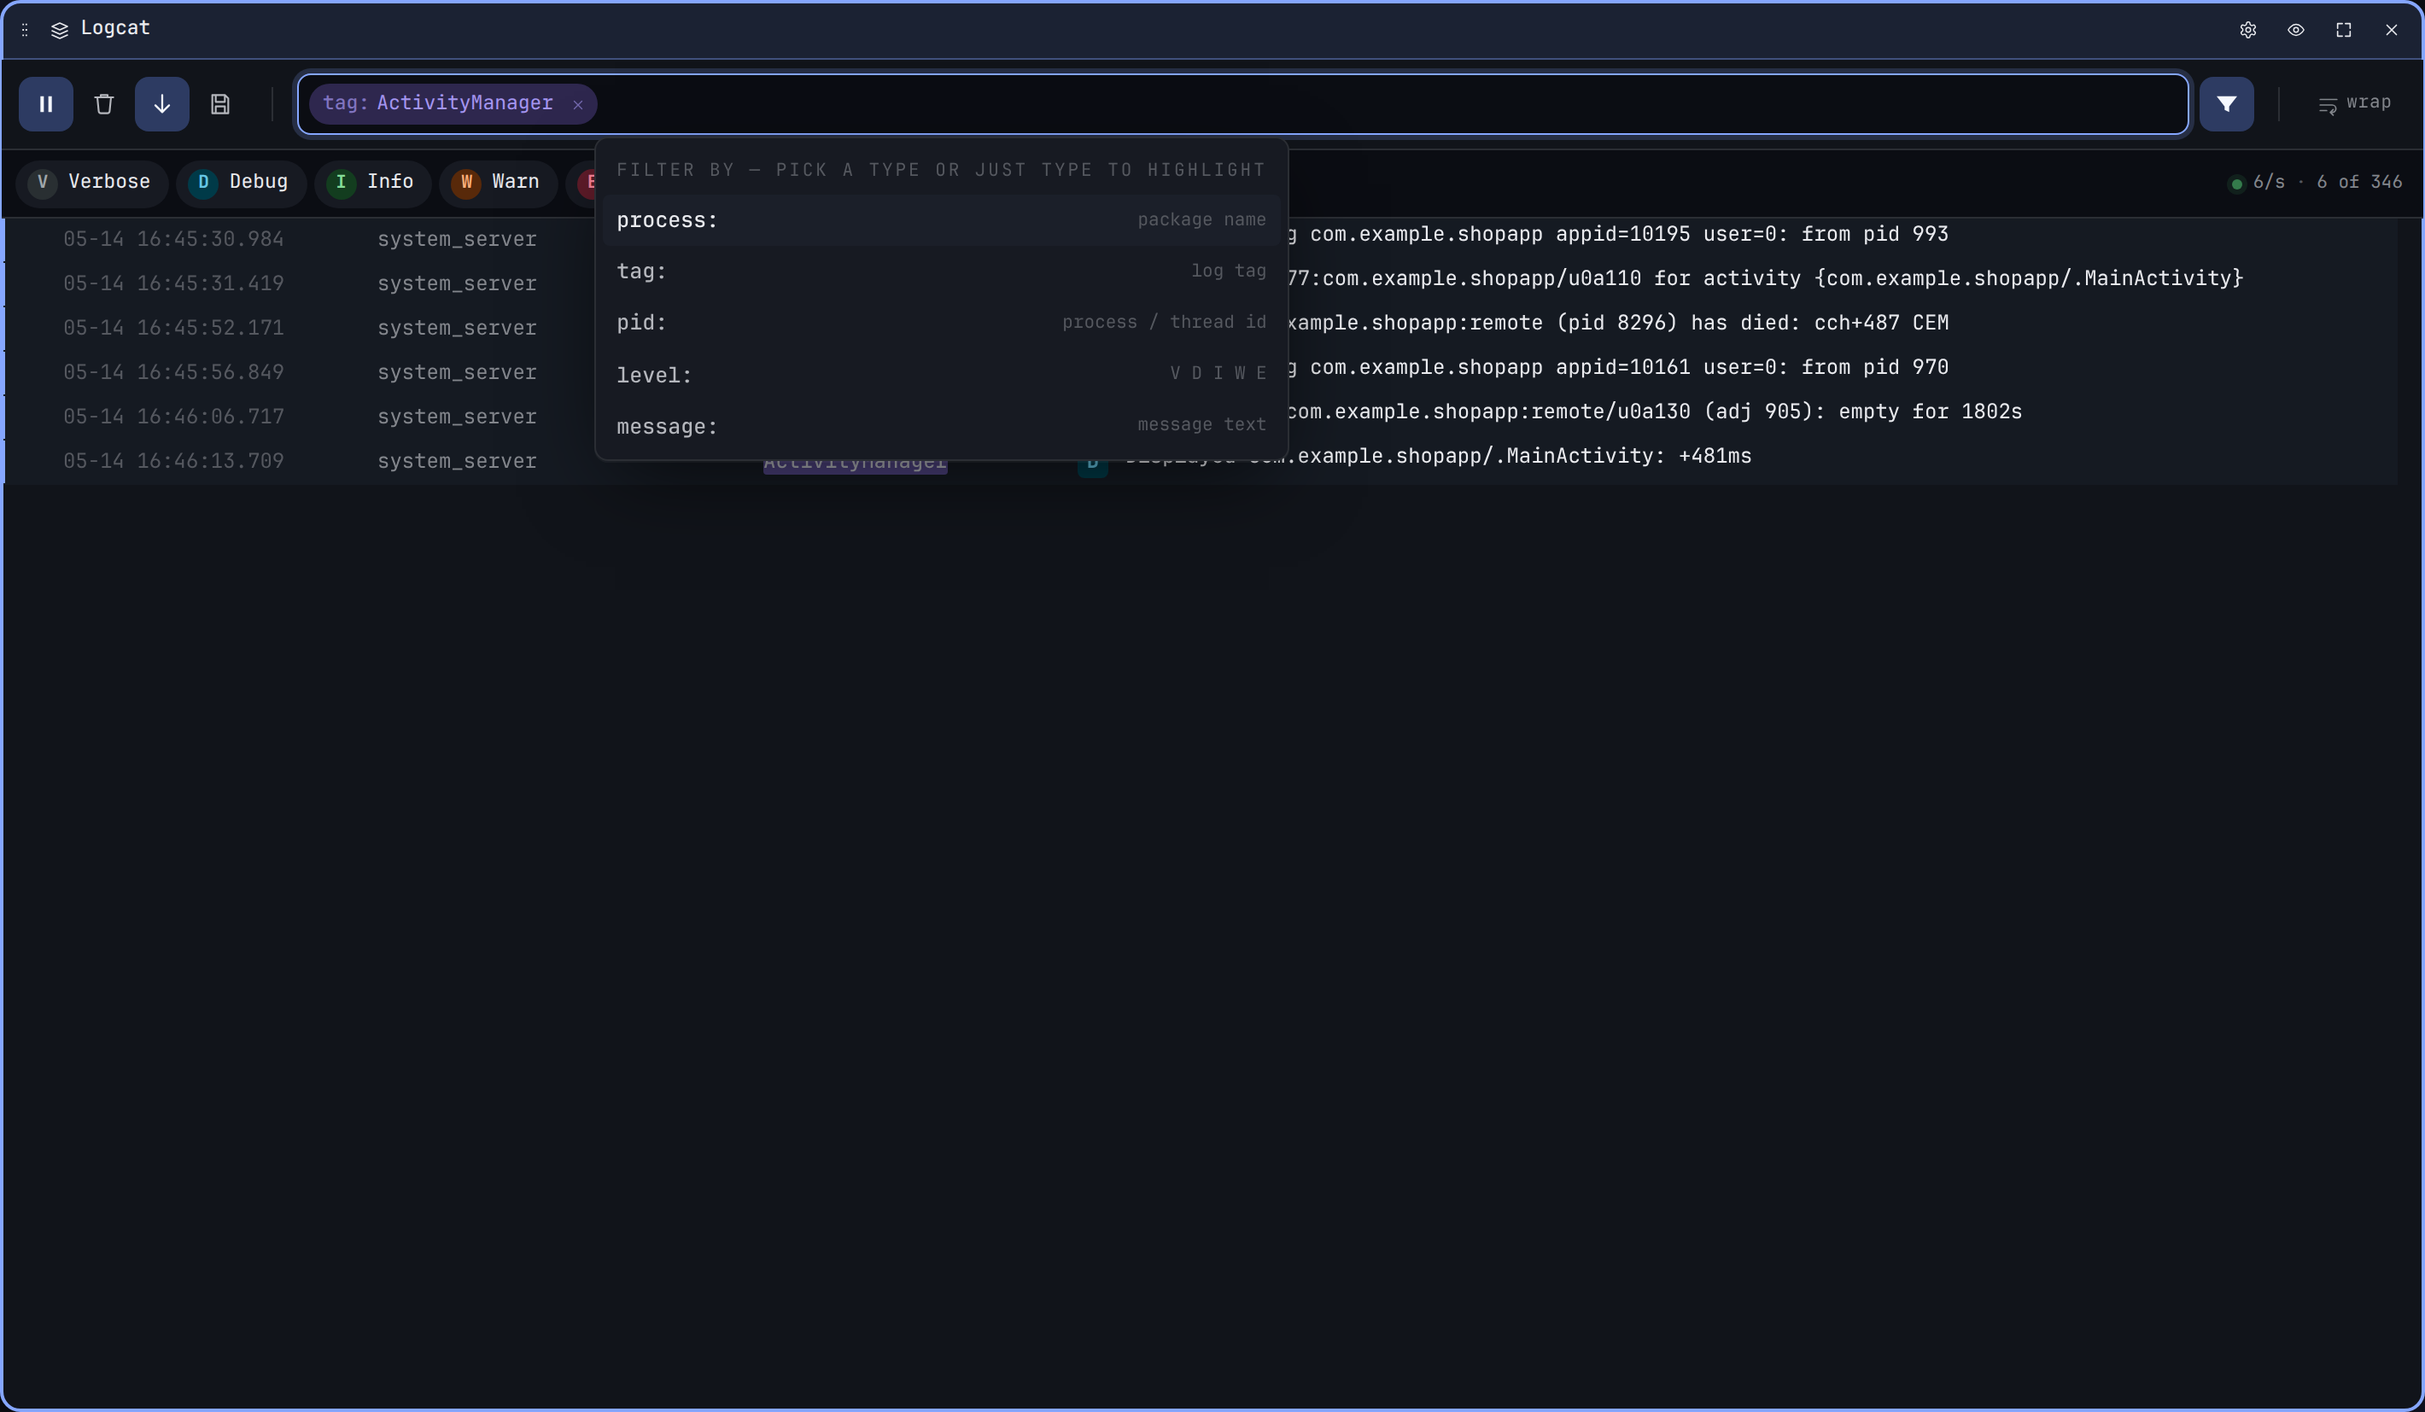
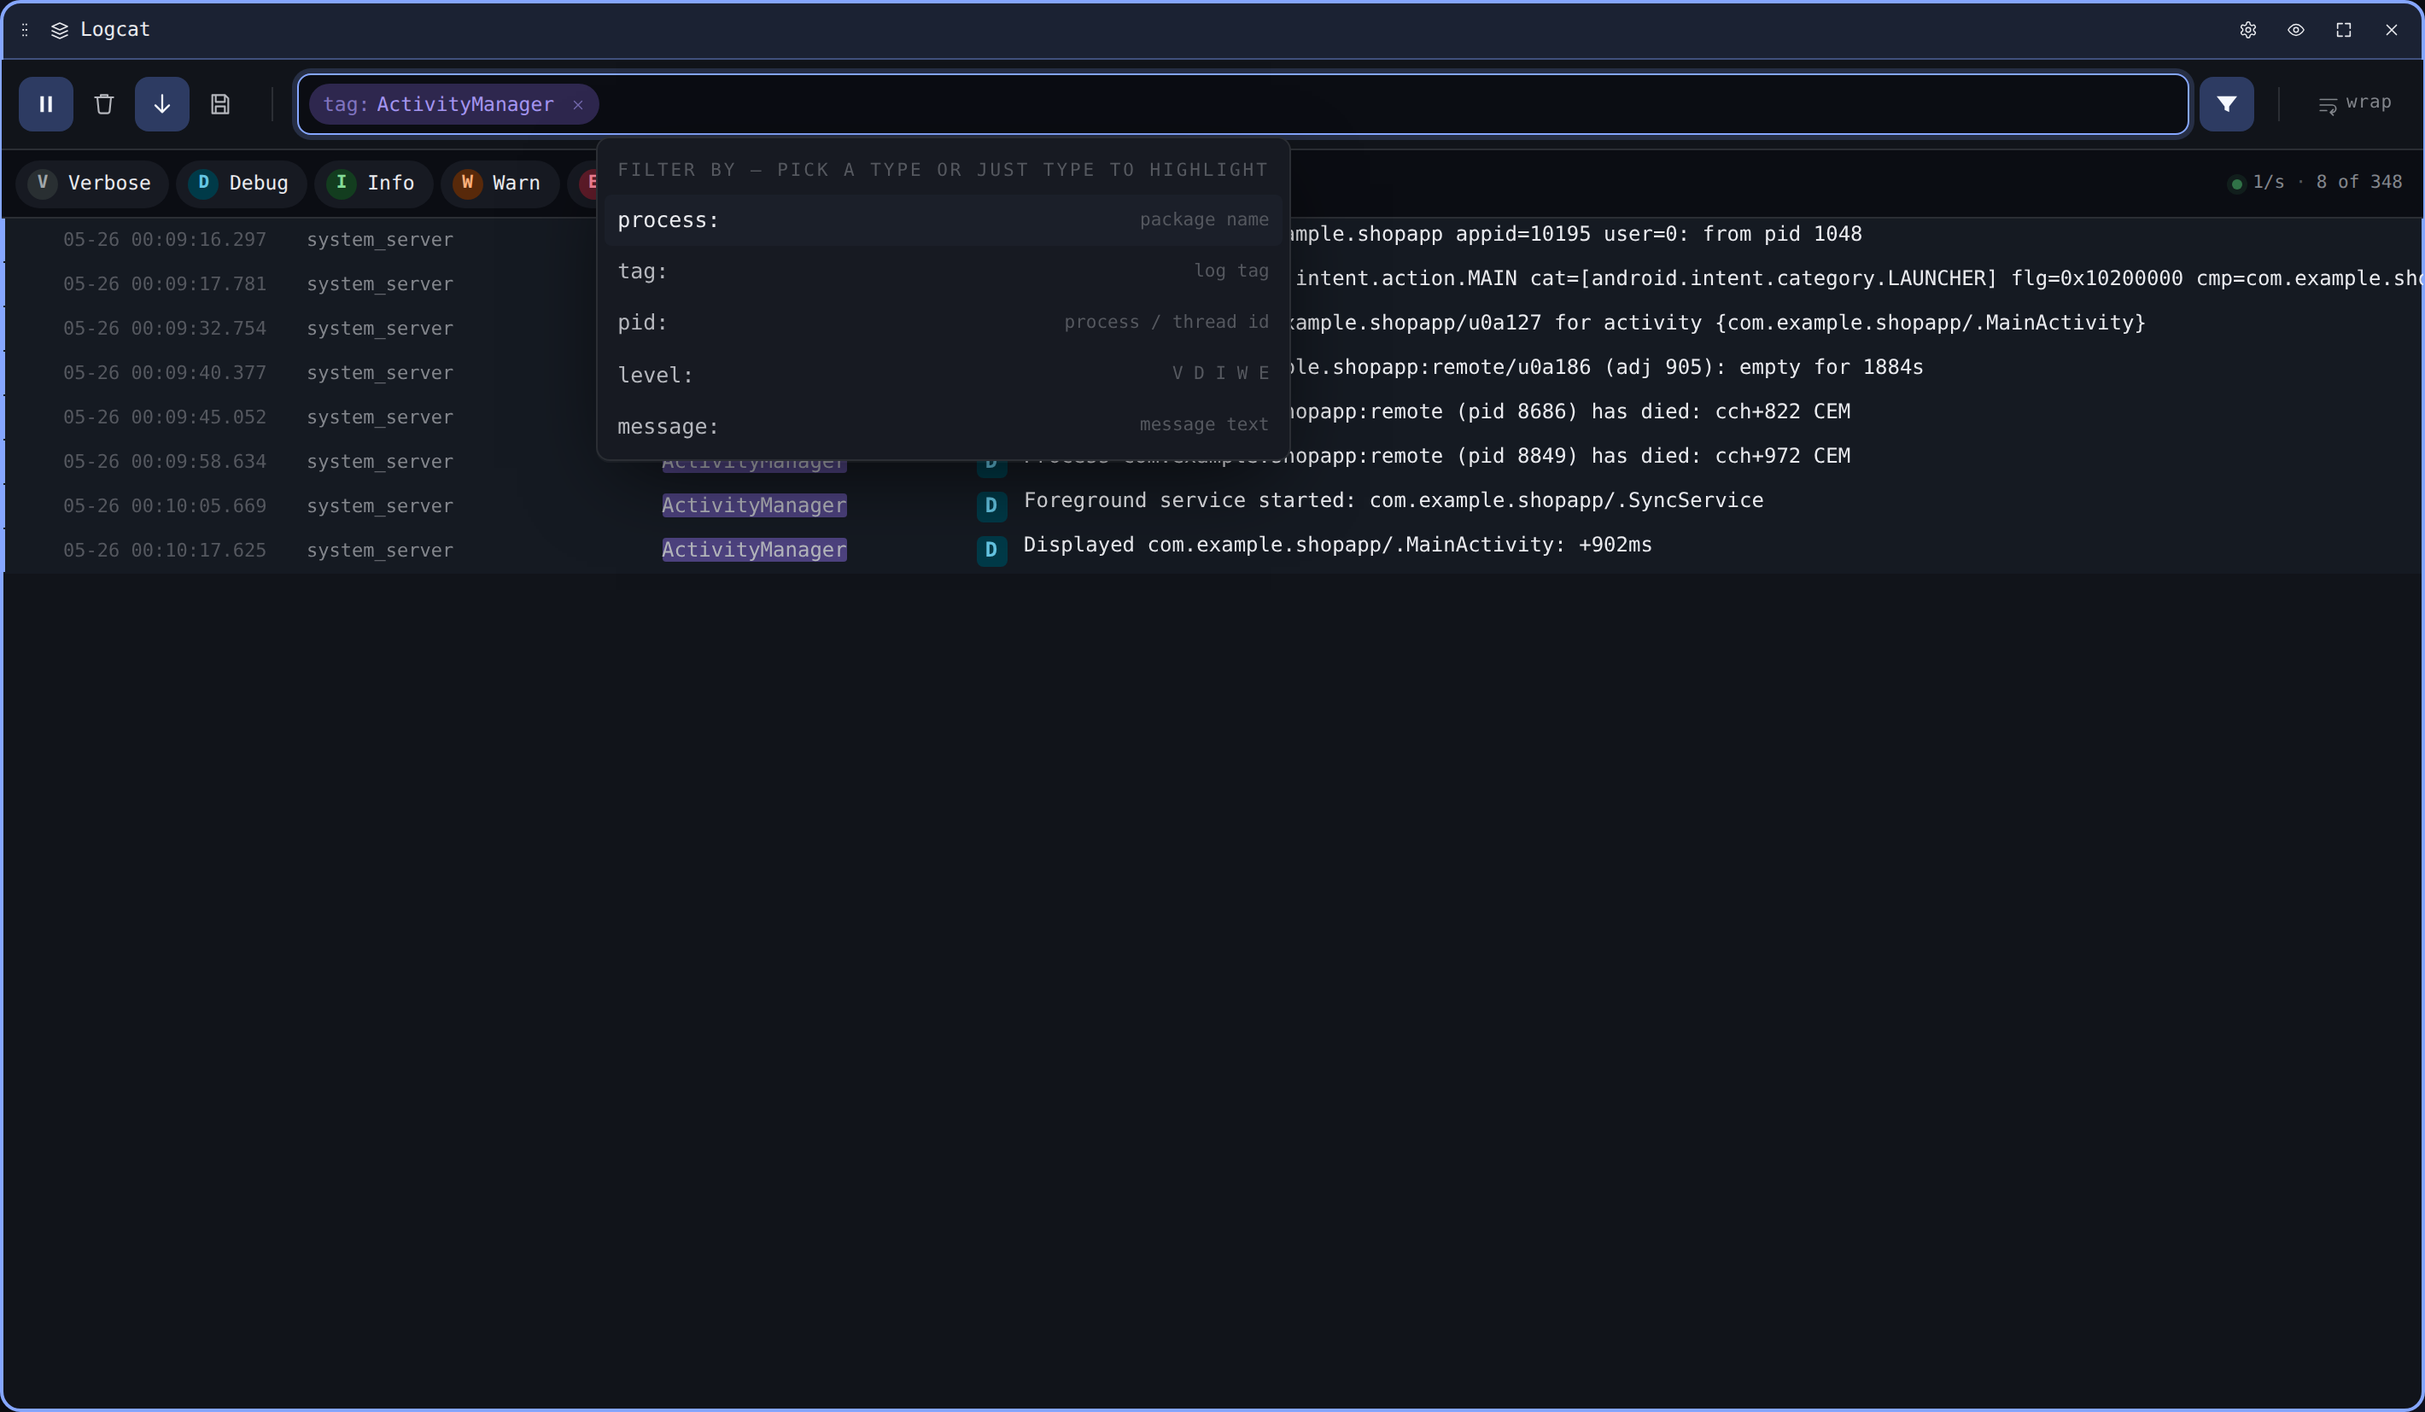
feat(logcat): tighten meta columns and add timestamp format setting
Reclaims horizontal space in log rows: the timestamp and PID/TID
columns are narrower, and the timestamp, PID, and process columns now
render one step below the message font so the eye lands on the message.
Adds a per-widget "Timestamp format" setting (Date / Time / Clock) that
drops the date then the milliseconds; the timestamp column width tracks
the chosen format. All sizing is em-relative so it scales with the
existing font-size slider.

https://claude.ai/code/session_01B69dFS61NXKi8XuywSMUXJ

diff --git a/src/components/widgets/logcat/LogcatSettingsBody.tsx b/src/components/widgets/logcat/LogcatSettingsBody.tsx
@@ -7,6 +7,7 @@ import { useMemo } from 'react';
 import { useTileSettings } from '../../../lib/tileSettings';
 import { LOGCAT_DEFAULTS, type LogcatSettings } from './logcatSettings';
 import { SettingsRow, SettingsSection, Segmented, Toggle, Slider } from '../../settings/SettingsControls';
+import { formatTs, type TimestampFormat } from '../../../lib/format';
 import type { LogLevel } from '../../../types';
 
 export interface LogcatSettingsBodyProps {
@@ -20,6 +21,17 @@ const LEVELS: ReadonlyArray<{ l: LogLevel; label: string }> = [
   { l: 'W', label: 'Warn' },
   { l: 'E', label: 'Error' },
 ];
+
+const DATE_FORMATS: ReadonlyArray<{ value: TimestampFormat; label: string }> = [
+  { value: 'datetime', label: 'Date' },
+  { value: 'time', label: 'Time' },
+  { value: 'clock', label: 'Clock' },
+];
+
+// Fixed sample so the picker's preview is deterministic regardless of
+// the wall clock. Built from local components so the rendered date /
+// time matches the user's locale the same way live rows do.
+const SAMPLE_TS = new Date(2024, 4, 25, 20, 41, 9, 261).getTime();
 
 export function LogcatSettingsBody({ tileId }: LogcatSettingsBodyProps) {
   const [settings, setSettings] = useTileSettings<LogcatSettings>(
@@ -72,6 +84,21 @@ export function LogcatSettingsBody({ tileId }: LogcatSettingsBodyProps) {
             ariaLabel="Wrap"
           />
         </SettingsRow>
+        <div className="ws-row gs-row-stacked">
+          <div className="gs-row-head">
+            <span className="ws-row-key">Timestamp format</span>
+            <span className="gs-row-desc">
+              Shorter formats drop the date, then the milliseconds, to
+              reclaim column width. Preview:{' '}
+              <code>{formatTs(SAMPLE_TS, settings.dateFormat)}</code>
+            </span>
+          </div>
+          <Segmented
+            value={settings.dateFormat}
+            onChange={(dateFormat) => setSettings({ dateFormat })}
+            options={DATE_FORMATS}
+          />
+        </div>
       </SettingsSection>
 
       <SettingsSection label="Columns">

diff --git a/src/styles/widgets/settings.css b/src/styles/widgets/settings.css
@@ -225,18 +225,39 @@
  * no-op for everything except `.cell.tag`).
  * ========================================================================= */
 
-/* Logcat — every cell in a log row reads body text. */
+/* Logcat — the message + tag read at the full body text size. */
 .lc-widget .row,
 .lc-widget .row .cell,
-.lc-widget .row .cell.ts,
-.lc-widget .row .cell.pid,
-.lc-widget .row .cell.pkg,
 .lc-widget .row .cell.tag,
 .lc-widget .row .cell.msg,
 .lc-widget .pinned-block .row,
 .lc-widget .pinned-block .row .cell {
   font-size: var(--widget-font-size, var(--t-sm));
 }
+
+/* Meta columns (timestamp, pid/tid, process) sit one step below the
+ * body size so the eye lands on the message first and the fixed columns
+ * pack tighter. The `.cell.X` selectors out-specify the generic
+ * `.cell` rule above. Stays relative to the per-tile font so it tracks
+ * the font-size slider. */
+.lc-widget .row .cell.ts,
+.lc-widget .row .cell.pid,
+.lc-widget .row .cell.pkg,
+.lc-widget .pinned-block .row .cell.ts,
+.lc-widget .pinned-block .row .cell.pid,
+.lc-widget .pinned-block .row .cell.pkg {
+  font-size: calc(var(--widget-font-size, var(--t-sm)) - 1px);
+}
+
+/* Timestamp + pid column widths, tightened from the design defaults
+ * (14em / 8em) now the meta font is a step smaller. The timestamp
+ * column tracks the chosen format via `data-ts-format` on the widget
+ * root — shorter formats reclaim the slack. em units keep every width
+ * proportional to the meta font size across the slider range. */
+.lc-widget .cell.ts { width: 11.5em; }
+.lc-widget[data-ts-format='time'] .cell.ts { width: 7.75em; }
+.lc-widget[data-ts-format='clock'] .cell.ts { width: 5.25em; }
+.lc-widget .cell.pid { width: 7.5em; }
 
 /* Shell — scrollback + the live prompt input. */
 .sh-widget .sh-scroll,

diff --git a/tests/smoke.spec.ts b/tests/smoke.spec.ts
@@ -1319,6 +1319,29 @@ test.describe('dashboard', () => {
     ).toHaveAttribute('aria-checked', 'false');
   });
 
+  test('Logcat modal "Timestamp format" reshapes the rendered row timestamp', async ({
+    page,
+  }) => {
+    await page.goto('/');
+    await page.getByRole('button', { name: /fake data/i }).click();
+
+    const logcatTile = page.locator('.tile').filter({ has: page.locator('.lc-widget') });
+    const firstTs = logcatTile.locator('.row .cell.ts').first();
+    // Default is the full Android shape: `MM-DD HH:MM:SS.mmm`.
+    await expect(firstTs).toHaveText(/^\d{2}-\d{2} \d{2}:\d{2}:\d{2}\.\d{3}$/);
+
+    // Switch to the compact "Clock" format via the modal.
+    await logcatTile.getByRole('button', { name: /widget settings/i }).click();
+    const dialog = page.getByRole('dialog', { name: /Logcat · settings/i });
+    await expect(dialog).toBeVisible();
+    await dialog.getByRole('tab', { name: /^Clock$/ }).click();
+    await page.keyboard.press('Escape');
+    await expect(dialog).not.toBeVisible();
+
+    // Rows now render just the clock (no date, no millis).
+    await expect(firstTs).toHaveText(/^\d{2}:\d{2}:\d{2}$/);
+  });
+
   test('the +Add palette closes via Esc, scrim click, and the close button', async ({
     page,
   }) => {

diff --git a/src/lib/format.test.ts b/src/lib/format.test.ts
@@ -1,0 +1,32 @@
+import { describe, expect, it } from 'vitest';
+import { formatTs } from './format';
+
+// A fixed local-time instant: 2024-05-25 20:41:09.261. Built from local
+// components so the assertions hold regardless of the runner's timezone
+// (the formatter reads local getHours/getMonth/etc., matching the UI).
+const TS = new Date(2024, 4, 25, 20, 41, 9, 261).getTime();
+
+describe('formatTs', () => {
+  it('defaults to the full date + time + millis shape', () => {
+    expect(formatTs(TS)).toBe('05-25 20:41:09.261');
+  });
+
+  it('"datetime" matches the default', () => {
+    expect(formatTs(TS, 'datetime')).toBe('05-25 20:41:09.261');
+  });
+
+  it('"time" drops the date but keeps milliseconds', () => {
+    expect(formatTs(TS, 'time')).toBe('20:41:09.261');
+  });
+
+  it('"clock" drops the date and the milliseconds', () => {
+    expect(formatTs(TS, 'clock')).toBe('20:41:09');
+  });
+
+  it('zero-pads every component', () => {
+    const early = new Date(2024, 0, 3, 4, 5, 6, 7).getTime();
+    expect(formatTs(early, 'datetime')).toBe('01-03 04:05:06.007');
+    expect(formatTs(early, 'time')).toBe('04:05:06.007');
+    expect(formatTs(early, 'clock')).toBe('04:05:06');
+  });
+});

diff --git a/src/components/LogList.tsx b/src/components/LogList.tsx
@@ -40,7 +40,7 @@ import { useEffect, useLayoutEffect, useMemo, useRef, type UIEvent } from 'react
 import { useVirtualizer } from '@tanstack/react-virtual';
 import * as Icons from './Icons';
 import { entryMatches } from '../lib/filters';
-import { rowHeightFor } from '../lib/format';
+import { rowHeightFor, type TimestampFormat } from '../lib/format';
 import { LogRow } from './LogRow';
 import type { Filter, LogEntry, Tweaks } from '../types';
 
@@ -49,6 +49,8 @@ const VIRTUAL_THRESHOLD = 800;
 export interface LogListProps {
   entries: LogEntry[];
   filters: Filter[];
+  /** Timestamp column presentation, forwarded to each row. */
+  tsFormat: TimestampFormat;
   pinned: Set<number>;
   pinnedEntries: LogEntry[];
   onTogglePin: (id: number) => void;
@@ -88,6 +90,7 @@ interface ScrollAnchor {
 export function LogList({
   entries,
   filters,
+  tsFormat,
   pinned,
   pinnedEntries,
   onTogglePin,
@@ -343,6 +346,7 @@ export function LogList({
       key={`${keyPrefix}${l.id}`}
       entry={l}
       filters={filters}
+      tsFormat={tsFormat}
       showTimestamps={tweaks.showTimestamps}
       showPid={tweaks.showPid}
       showProcess={tweaks.showProcess}

diff --git a/src/components/LogRow.tsx b/src/components/LogRow.tsx
@@ -3,7 +3,7 @@
 
 import { Fragment, memo, useMemo, type ReactNode } from 'react';
 import * as Icons from './Icons';
-import { formatTs } from '../lib/format';
+import { formatTs, type TimestampFormat } from '../lib/format';
 import type { Filter, LogEntry } from '../types';
 
 interface FieldRange {
@@ -66,6 +66,7 @@ function HighlightedText({ text, ranges }: HighlightedTextProps) {
 export interface LogRowProps {
   entry: LogEntry;
   filters: Filter[];
+  tsFormat: TimestampFormat;
   showTimestamps: boolean;
   showPid: boolean;
   showProcess: boolean;
@@ -87,6 +88,7 @@ export interface LogRowProps {
 export const LogRow = memo(function LogRow({
   entry,
   filters,
+  tsFormat,
   showTimestamps,
   showPid,
   showProcess,
@@ -160,7 +162,7 @@ export const LogRow = memo(function LogRow({
       >
         {pinned ? <Icons.PinFilled size={11} /> : <Icons.Pin size={11} />}
       </button>
-      {showTimestamps && <span className="cell ts">{formatTs(entry.ts)}</span>}
+      {showTimestamps && <span className="cell ts">{formatTs(entry.ts, tsFormat)}</span>}
       {showPid && (
         <span className="cell pid">
           {entry.pid}-{entry.tid}

diff --git a/src/lib/format.ts b/src/lib/format.ts
@@ -2,10 +2,19 @@
 
 import type { Tweaks } from '../types';
 
-export function formatTs(ts: number): string {
+/** Logcat row timestamp presentation. `datetime` is the full Android
+ *  logcat shape (`MM-DD HH:MM:SS.mmm`); the shorter forms drop the date
+ *  and then the milliseconds so narrow tiles can reclaim the column. */
+export type TimestampFormat = 'datetime' | 'time' | 'clock';
+
+export function formatTs(ts: number, format: TimestampFormat = 'datetime'): string {
   const d = new Date(ts);
   const pad = (n: number, w = 2) => String(n).padStart(w, '0');
-  return `${pad(d.getMonth() + 1)}-${pad(d.getDate())} ${pad(d.getHours())}:${pad(d.getMinutes())}:${pad(d.getSeconds())}.${pad(d.getMilliseconds(), 3)}`;
+  const clock = `${pad(d.getHours())}:${pad(d.getMinutes())}:${pad(d.getSeconds())}`;
+  if (format === 'clock') return clock;
+  const withMs = `${clock}.${pad(d.getMilliseconds(), 3)}`;
+  if (format === 'time') return withMs;
+  return `${pad(d.getMonth() + 1)}-${pad(d.getDate())} ${withMs}`;
 }
 
 /** Estimated pixel height of one log row at the given density. Used by

diff --git a/src/components/widgets/logcat/logcatSettings.ts b/src/components/widgets/logcat/logcatSettings.ts
@@ -6,6 +6,7 @@
 // into `settings.filters`.
 
 import { registerSettingsMigration } from '../../../lib/tileSettings';
+import type { TimestampFormat } from '../../../lib/format';
 import type { Filter, LevelEnabled } from '../../../types';
 
 export interface LogcatSettings {
@@ -14,6 +15,9 @@ export interface LogcatSettings {
   density: 'compact' | 'comfortable';
   heatmap: boolean;
   wrap: boolean;
+  /** Timestamp column presentation — controls both the rendered string
+   *  and the column width (shorter formats reclaim horizontal space). */
+  dateFormat: TimestampFormat;
   showTimestamp: boolean;
   showPid: boolean;
   showProcess: boolean;
@@ -31,6 +35,7 @@ export const LOGCAT_DEFAULTS: LogcatSettings = {
   density: 'compact',
   heatmap: false,
   wrap: false,
+  dateFormat: 'datetime',
   showTimestamp: true,
   showPid: false,
   showProcess: true,

diff --git a/src/components/widgets/LogcatWidget.tsx b/src/components/widgets/LogcatWidget.tsx
@@ -626,6 +626,7 @@ export function LogcatWidget({ tileId }: LogcatWidgetProps) {
       onWheel={bumpActive}
       onScrollCapture={bumpActive}
       data-density={settings.density}
+      data-ts-format={settings.dateFormat}
       data-active={active ? 'true' : 'false'}
       style={widgetStyle}
     >
@@ -689,6 +690,7 @@ export function LogcatWidget({ tileId }: LogcatWidgetProps) {
         <LogList
           entries={filtered}
           filters={filters}
+          tsFormat={settings.dateFormat}
           pinned={pinned}
           pinnedEntries={pinnedEntries}
           onTogglePin={togglePin}

diff --git a/docs/features/logcat.md b/docs/features/logcat.md
@@ -87,11 +87,29 @@ modal) to wrap long messages within the row.
 - `⌘K` / `Ctrl+K` clears the visible buffer (the upstream stream keeps
   going).
 
+## Timestamp format
+
+The timestamp column defaults to the full Android logcat shape,
+`MM-DD HH:MM:SS.mmm`. On narrow tiles you can trade precision for
+horizontal space from the per-widget settings modal:
+
+| Format | Example | Notes |
+| --- | --- | --- |
+| `Date` | `05-25 20:41:09.261` | Full date + time + milliseconds (default) |
+| `Time` | `20:41:09.261` | Drops the date — handy when every line is same-day |
+| `Clock` | `20:41:09` | Drops the date and milliseconds — the most compact |
+
+The column width tracks the chosen format, so shorter formats hand the
+reclaimed space back to the message. The timestamp, PID/TID, and process
+columns also render a step smaller than the message so the eye lands on
+the message first.
+
 ## Per-widget settings
 
 The cog in the tile header opens a settings modal for **this** Logcat
-instance. From there you can flip wrap, change row density, edit the
-default level mask, or rename the tile. Changes persist per-tile.
+instance. From there you can flip wrap, change row density, pick the
+timestamp format, edit the default level mask, or rename the tile.
+Changes persist per-tile.
 
 ## Keyboard shortcuts
 
